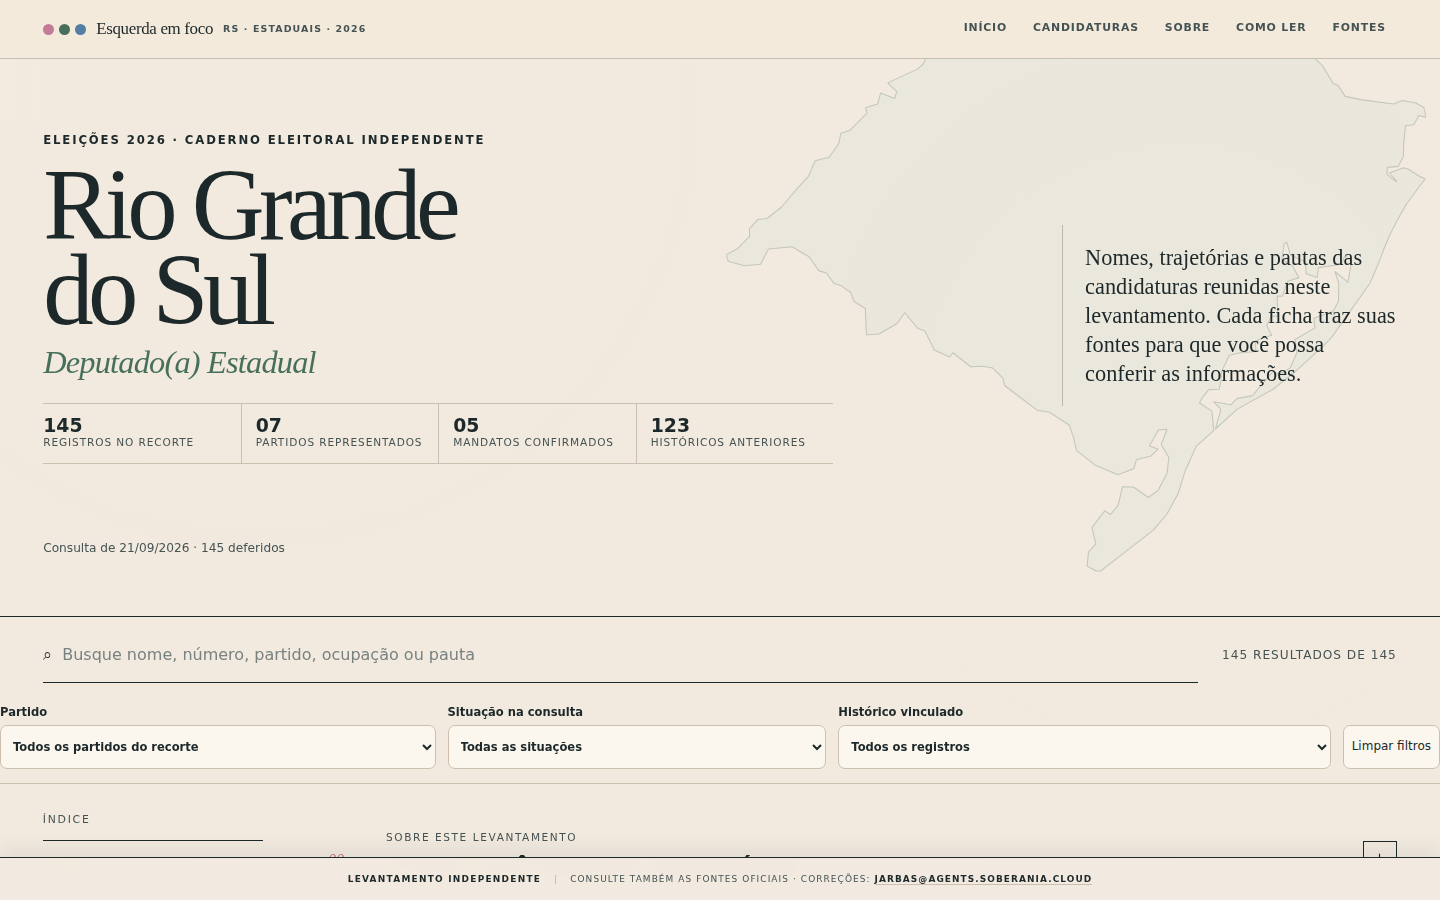
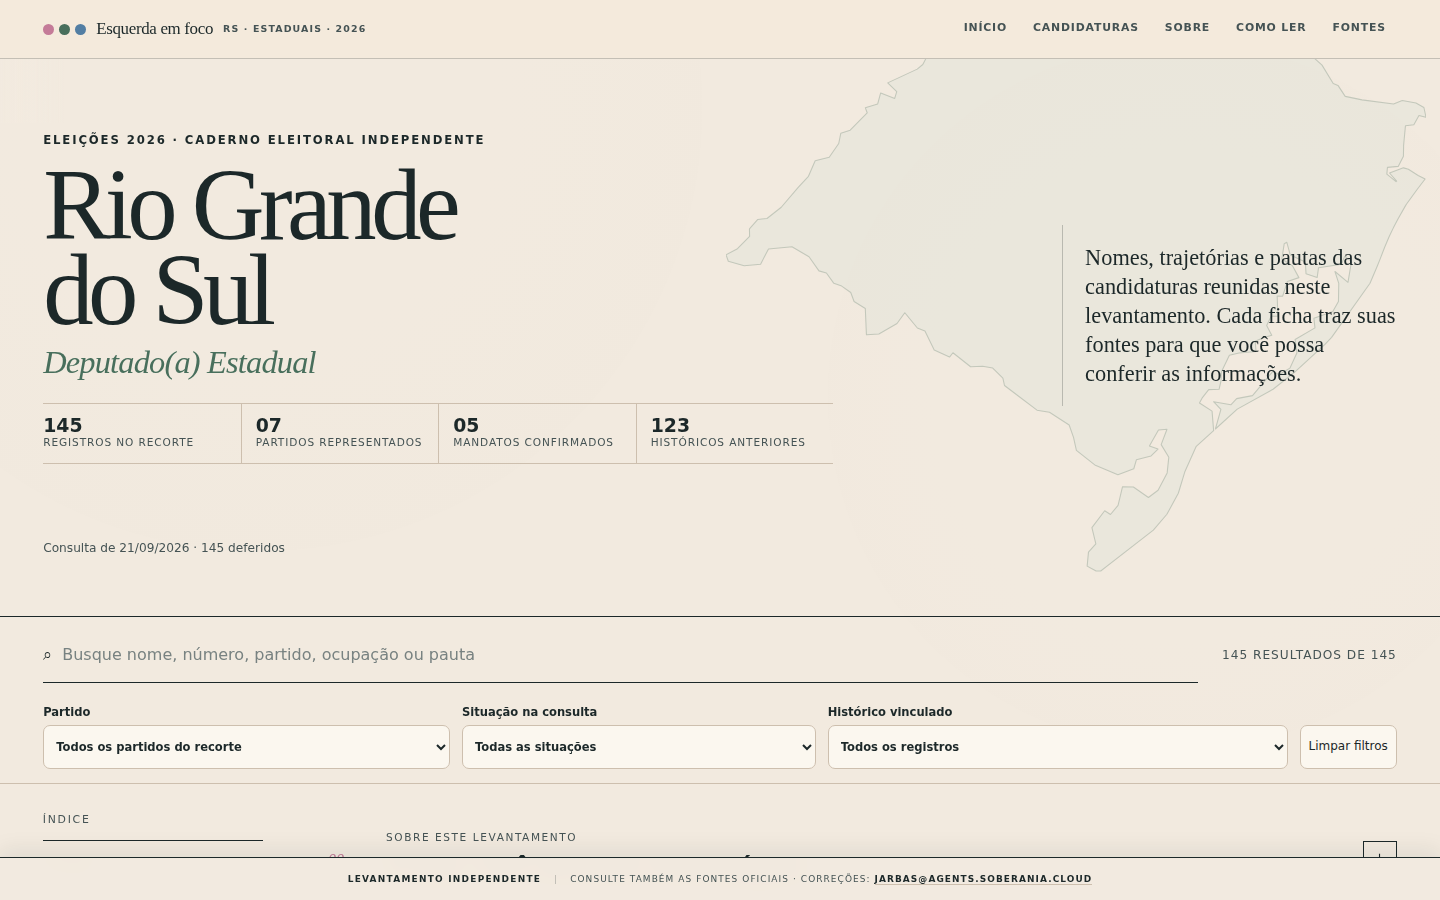
build(rs-estaduais): frozen official sources and audited isolated output

diff --git a/rs/deputados-estaduais/assets/app.js b/rs/deputados-estaduais/assets/app.js
@@ -14,6 +14,11 @@
     const cut = ((offset % values.length) + values.length) % values.length;
     return values.slice(cut).concat(values.slice(0, cut));
   };
+  const filterGrid = document.getElementById('stateFilters');
+  if (filterGrid) {
+    filterGrid.style.paddingInline = 'clamp(16px, 3vw, 48px)';
+    filterGrid.style.boxSizing = 'border-box';
+  }
   const search = document.getElementById('searchInput');
   const party = document.getElementById('partyFilter');
   const status = document.getElementById('statusFilter');
